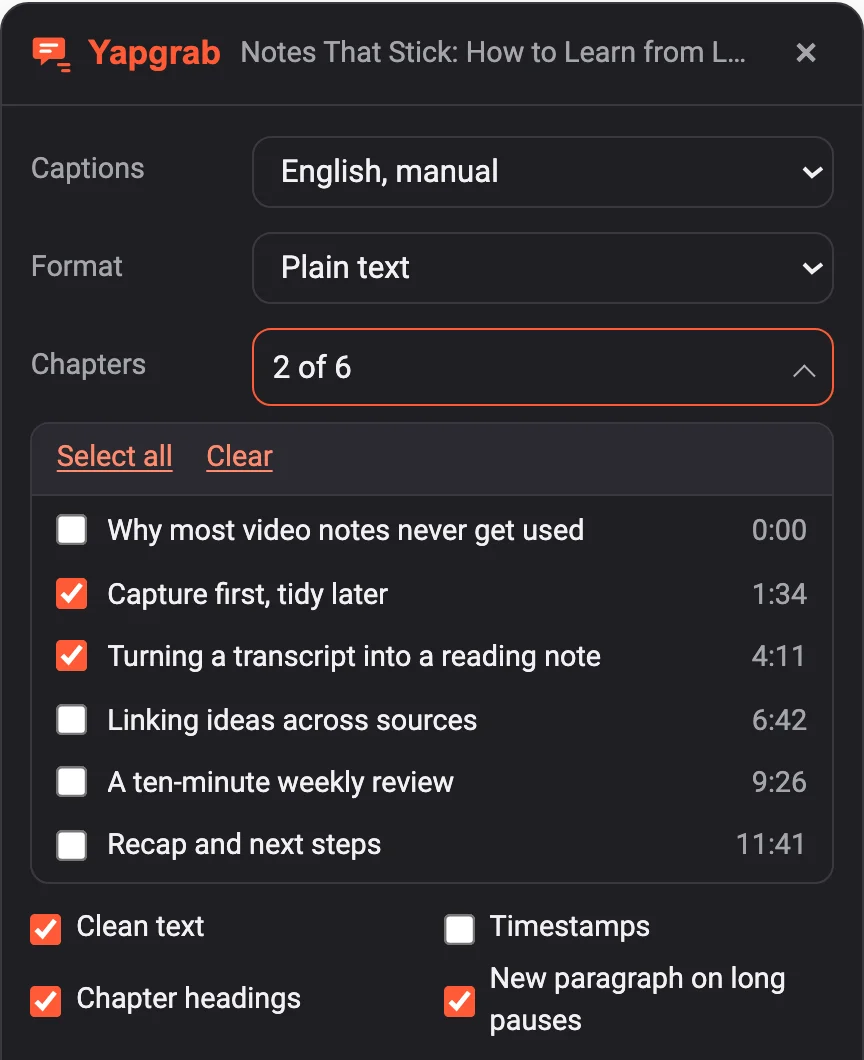
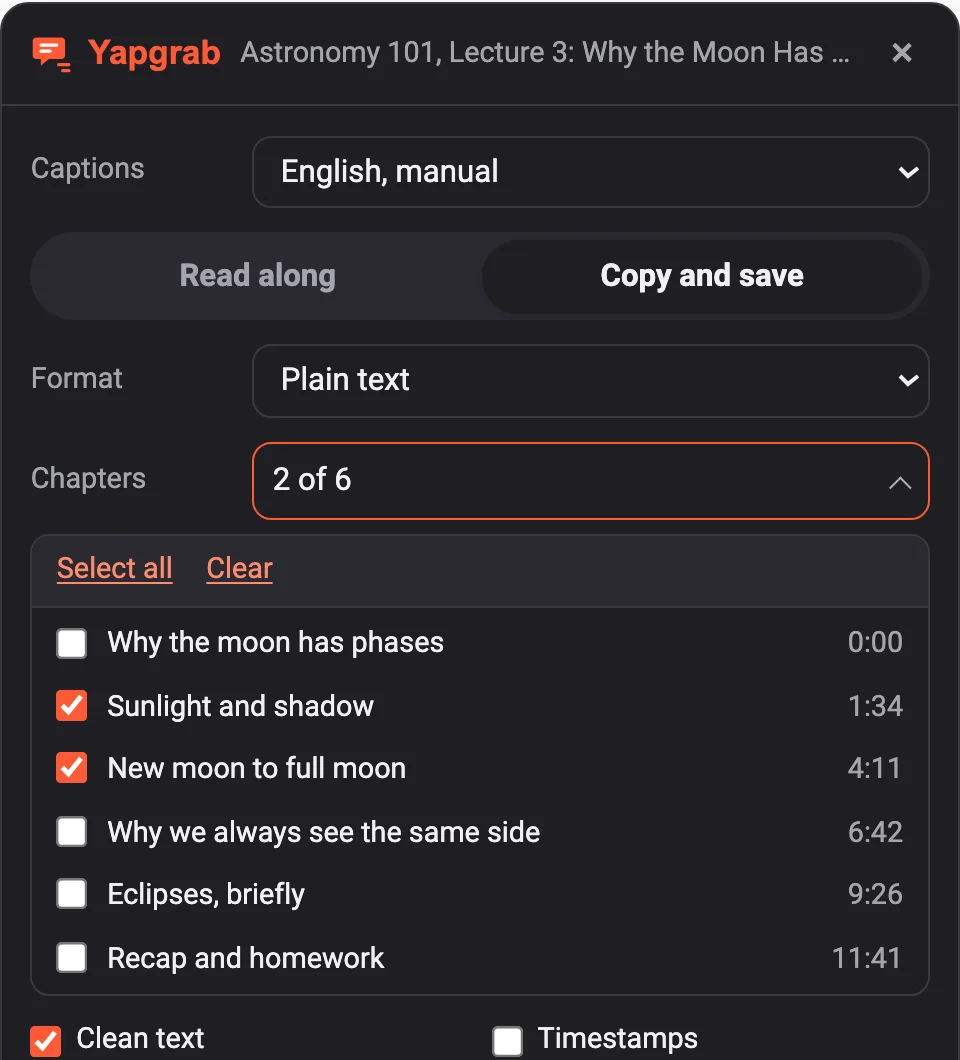
Read along on the site: new section, free plan line, new panel images and real video shot
Claude-Session: https://claude.ai/code/session_01Wxkbs8Vpd4BWRxFUQcPgKP

diff --git a/index.html b/index.html
@@ -152,11 +152,11 @@
       <div class="wrap wide">
         <h2><span class="crumbs" aria-hidden="true"><s>[Music]</s> captions come&nbsp;in <s>captions come in</s> crumbs.</span><span class="sr">Captions come in crumbs.</span> <span class="out">Yapgrab hands you paragraphs.</span></h2>
         <figure class="real">
-          <div class="real-frame" role="img" aria-label="Yapgrab on a real YouTube video page: the Yapgrab button next to Subscribe opens a panel with the video's human-made captions as clean paragraphs, ready to copy or save.">
+          <div class="real-frame" role="img" aria-label="Yapgrab on a real YouTube video page: the Yapgrab button next to Subscribe opens a panel with the video's human-made captions as clean paragraphs that follow the video, with the line being spoken highlighted.">
             <div class="mock-url" aria-hidden="true"><i></i><i></i><i></i><span>youtube.com/watch?v=Q3qiPXP57SE</span><img class="ext" src="assets/icon.svg" alt="" width="18" height="18"></div>
             <div class="real-stage">
               <img class="base" src="assets/real-before.webp" alt="" width="1190" height="620" loading="lazy" decoding="async">
-              <img class="panel" src="assets/real-panel.webp" alt="" width="338" height="563" loading="lazy" decoding="async">
+              <img class="panel" src="assets/real-panel.webp" alt="" width="327" height="540" loading="lazy" decoding="async">
               <span class="tap" aria-hidden="true"></span>
             </div>
           </div>
@@ -168,6 +168,23 @@
           <li><b>Paragraphs</b> A new one starts at each chapter and after a long pause.</li>
           <li><b>One button</b> Press the Yapgrab button on the video page, then copy or save.</li>
         </ul>
+      </div>
+    </section>
+
+    <section class="section tint" id="read">
+      <div class="wrap wide split">
+        <div>
+          <h2>Read along while the video plays.</h2>
+          <p class="sub">Open Yapgrab next to the video and the transcript follows it. The line being spoken is highlighted, so you never lose your place.</p>
+          <ul class="smalls">
+            <li><b>Click any line</b> and the video jumps there.</li>
+            <li><b>Search the transcript</b> and step through every mention of a word.</li>
+            <li><b>Scroll ahead</b> to read on. One click brings you back to where the video is.</li>
+          </ul>
+        </div>
+        <figure class="panel-shot read-shot">
+          <img src="assets/panel-read.webp" width="480" height="792" loading="lazy" decoding="async" alt="The Yapgrab panel on Read along: a lecture transcript in paragraphs with chapter headings, the line being spoken highlighted, and a search for &quot;lit&quot; showing 1 of 6 matches.">
+        </figure>
       </div>
     </section>
 
@@ -225,7 +242,7 @@ Okay, so last week somebody asked me why the moon keeps changing shape.</pre>
     <section class="section tint" id="details">
       <div class="wrap wide split flip">
         <figure class="panel-shot">
-          <img src="assets/panel-chapters.webp" width="432" height="530" loading="lazy" decoding="async" alt="The Yapgrab panel in dark mode with the chapter picker open. Two of six chapters are ticked, each with its start time. Below are the switches: clean text, timestamps, chapter headings and new paragraph on long pauses.">
+          <img src="assets/panel-chapters.webp" width="480" height="530" loading="lazy" decoding="async" alt="The Yapgrab panel in dark mode on Copy and save, with the chapter picker open. Two of six chapters are ticked, each with its start time. Below are the switches: clean text, timestamps, chapter headings and new paragraph on long pauses.">
         </figure>
         <div>
           <h2>Just the chapters you need, in the language you want.</h2>
@@ -295,6 +312,7 @@ Okay, so last week somebody asked me why the moon keeps changing shape.</pre>
             <p class="tag">Everything on this page.</p>
             <ul class="ticks">
               <li>Clean text in five formats</li>
+              <li>Read along, with search and click to jump</li>
               <li>Caption track and chapter pickers</li>
               <li>Copy shortcut</li>
               <li>Several videos at once, up to 5 per export</li>

diff --git a/assets/home.css b/assets/home.css
@@ -345,8 +345,8 @@ footer.big .legal { grid-column: 1 / -1; padding-top: 18px; border-top: 1px soli
 .real-frame { border-radius: 16px; overflow: hidden; border: 1px solid var(--line); background: var(--card); box-shadow: 0 40px 80px -36px rgba(20, 10, 5, .45), var(--shadow); }
 .real-stage { position: relative; }
 .real-stage .base { display: block; width: 100%; height: auto; }
-.real-stage .panel { position: absolute; left: 71.09%; top: 9.03%; width: 28.4%; height: auto; border-radius: 8px; }
-.real-stage .tap { position: absolute; left: 40.9%; top: 95.8%; width: 44px; height: 44px; margin: -22px 0 0 -22px; border-radius: 50%; border: 3px solid var(--accent); opacity: 0; }
+.real-stage .panel { position: absolute; left: 71.18%; top: 10.97%; width: 27.48%; height: auto; border-radius: 8px; }
+.real-stage .tap { position: absolute; left: 41.35%; top: 96.98%; width: 44px; height: 44px; margin: -22px 0 0 -22px; border-radius: 50%; border: 3px solid var(--accent); opacity: 0; }
 .real figcaption { margin-top: 14px; font-size: 13.5px; color: var(--muted); text-align: center; text-wrap: balance; }
 .real-stage.play .panel { animation: real-panel 9s cubic-bezier(.3, .8, .3, 1) infinite; }
 .real-stage.play .tap { animation: real-tap 9s ease-out infinite; }
@@ -402,3 +402,7 @@ body.egg-hush :is(img, svg, video) { -webkit-text-fill-color: initial; }
 .yappy-eyes i { display: block; width: 50%; aspect-ratio: 1; border-radius: 50%; background: radial-gradient(circle at 34% 30%, #6b6b70 0 9%, #2b2b2e 15%); transition: transform .12s ease-out; }
 @keyframes eye-open { 0% { transform: scaleY(.1); } 60% { transform: scaleY(1.12); } 100% { transform: none; } }
 @media (prefers-reduced-motion: reduce) { .yappy-eyes .eye { animation: none; } .yappy-eyes i { transition: none; } }
+
+/* Read along: the real panel on its Read along tab, at 2x. */
+.read-shot { width: min(100%, 400px); }
+@media (max-width: 900px) { #read .split { grid-template-columns: minmax(0, 1fr); } }
